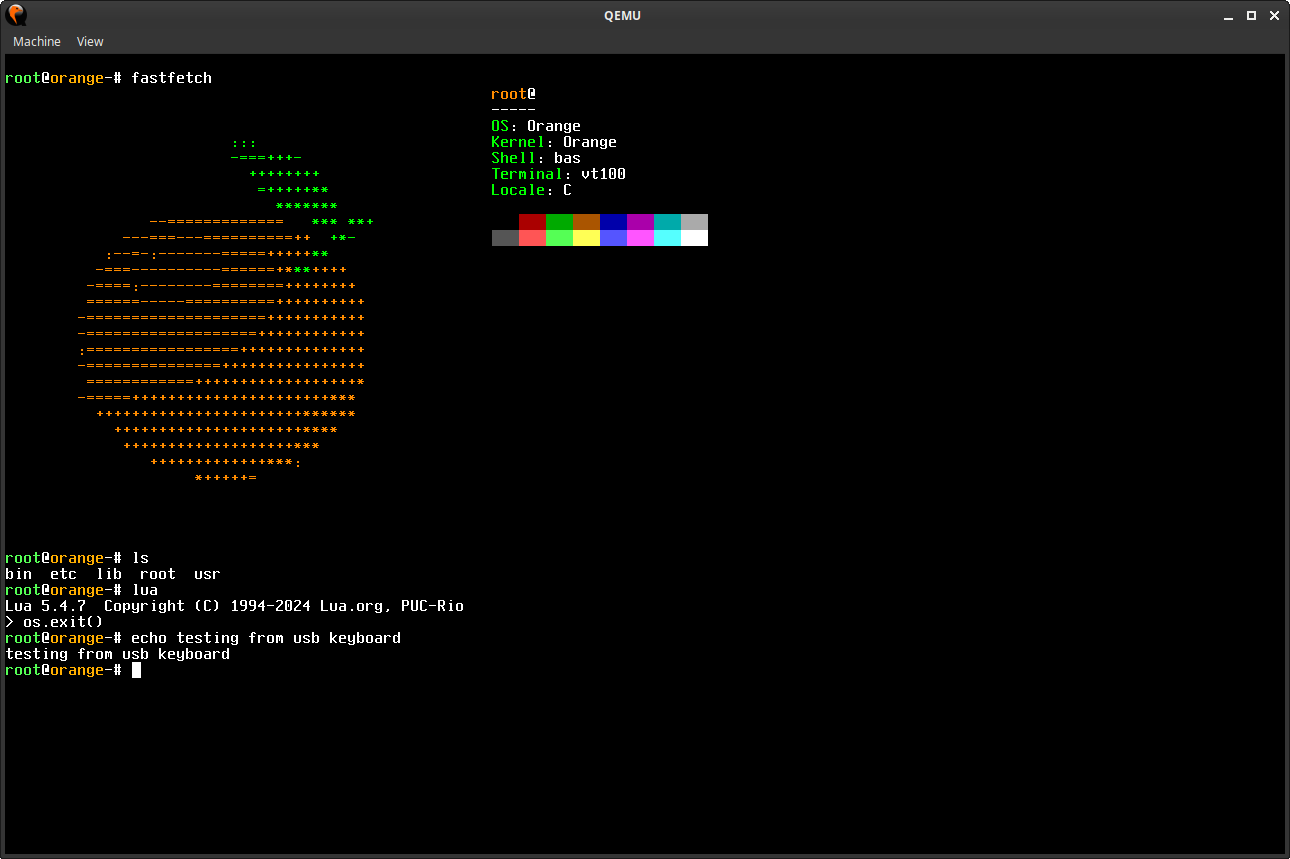
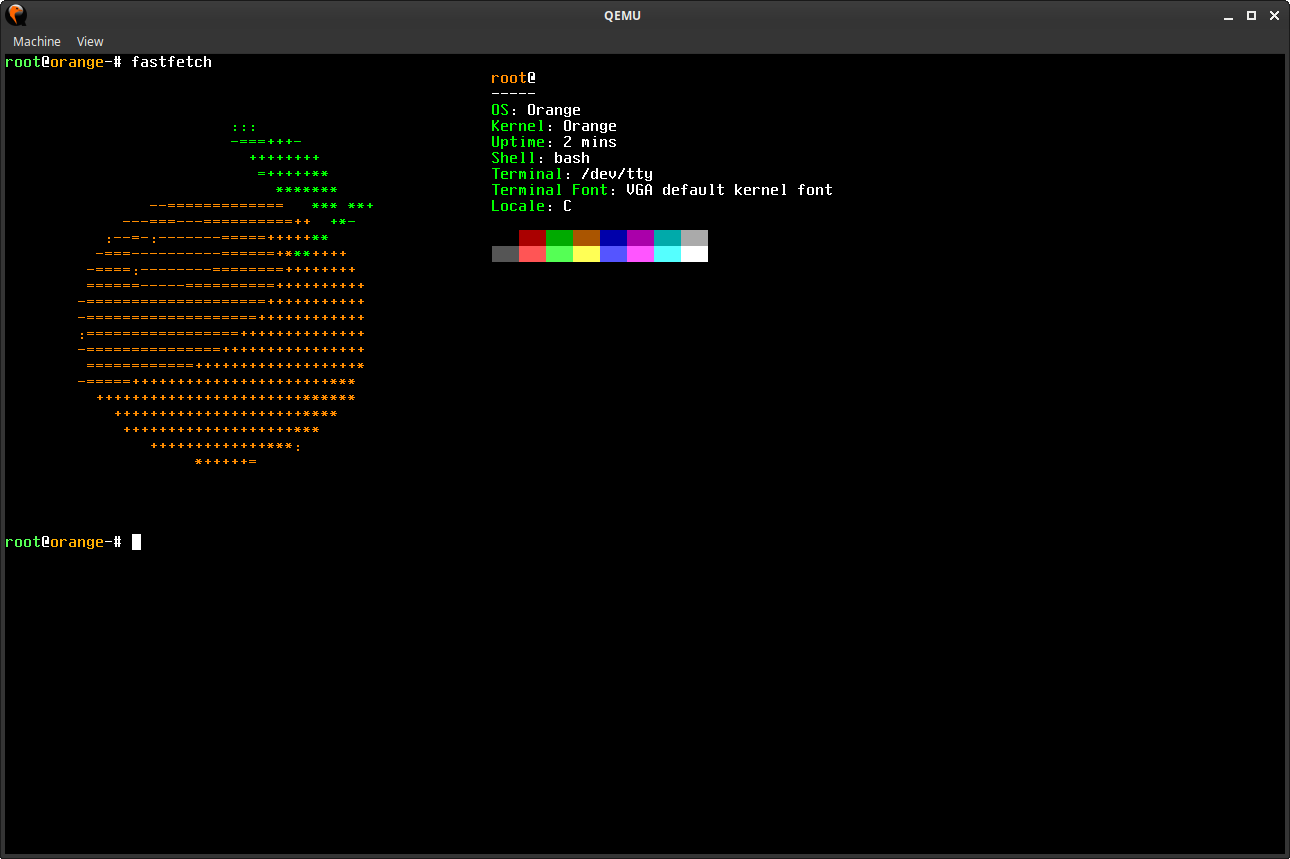
bug fixes, procfs

diff --git a/kernel/src/arch/x86_64/interrupts/syscalls/syscall.cpp b/kernel/src/arch/x86_64/interrupts/syscalls/syscall.cpp
@@ -212,8 +212,6 @@ int syscall_open(int_frame_t* ctx) {
     String::memcpy(path1,first,ptr);
 
     resolve_path(buffer,path1,path,1);  
-    
-    SDEBUG("Opening %s %s %s\n",buffer,path1,path);
     if(flags & O_CREAT)
         VFS::Touch(path);
     
@@ -223,6 +221,12 @@ int syscall_open(int_frame_t* ctx) {
 
     if(stt && stt != -15)
         return ENOENT;
+
+    if(stt == -15 && String::strcmp(path,"/")) {
+        int test = VFS::Exists(path);
+        if(!test)
+            return ENOENT;
+    }
 
     if(zx.type != VFS_TYPE_DIRECTORY && (flags & O_DIRECTORY))
         return ENOTDIR;
@@ -244,6 +248,7 @@ int syscall_open(int_frame_t* ctx) {
     String::memset(&fd_s->reserved_stat,0,sizeof(filestat_t));
 
     fd_s->reserved_stat.name = (char*)1;
+
 
     Paging::EnablePaging((uint64_t*)HHDM::toVirt(ctx->cr3));
     *fdout = fd;
@@ -466,17 +471,23 @@ int syscall_read(int_frame_t* ctx) {
 
     if(VFS::Stat(file->path_point,(char*)&stat,1) == -15) {
         
+        if(file->seek_offset == -1) {
+            ctx->rdx = 0;
+            return 0;
+        }
+
         char* dest_buf = (char*)PMM::VirtualBigAlloc(SIZE_TO_PAGES(count));
 
         __prepare_file_content_syscall(dest_buf,count,ctx->cr3);
 
-        VFS::Read(file->path_point,file->path_point,count);
+        VFS::Read(dest_buf,file->path_point,count);
 
         Paging::EnablePaging((uint64_t*)HHDM::toVirt(ctx->cr3));
         String::memset(buf,0,count);
         String::memcpy(buf,dest_buf,count);
         Paging::EnableKernel();
 
+        file->seek_offset = -1;
         ctx->rdx = count;
         
         return 0;
@@ -1786,7 +1797,6 @@ extern "C" void c_syscall_handler(int_frame_t* ctx) {
     Paging::EnableKernel();
     syscall_t* sys = syscall_find_table(ctx->rax);
 
-    //SINFO("Sys %d\n",sys->num);
     CpuData::Access()->last_syscall = ctx->rax;
 
     if(sys == 0) {

diff --git a/kernel/src/generic/VFS/procfs.cpp b/kernel/src/generic/VFS/procfs.cpp
@@ -5,6 +5,7 @@
 #include <stdint.h>
 #include <generic/memory/pmm.hpp>
 #include <other/string.hpp>
+#include <drivers/hpet/hpet.hpp>
 #include <arch/x86_64/interrupts/syscalls/syscall.hpp>
 #include <generic/limineA/limineinfo.hpp>
 
@@ -47,6 +48,36 @@ int procfs_read(char* buffer,char* filename,long hint_size) {
 
 }
 
+int procfs_uptime(char* buffer,long hint_size) {
+    char buffer0[1024];
+    String::memset(buffer0,0,1024);
+    uint64_t sec = HPET::NanoCurrent() / 1000000000;
+    String::itoa(sec,buffer0,10);
+    String::memset(buffer,0,hint_size);
+    String::memcpy(buffer,buffer0,String::strlen(buffer0) <= hint_size ? String::strlen(buffer0) : hint_size);
+    return 0;
+}
+
+char procfs_exists(char* filename) {
+    procfs_data_t* data = head_procdata;
+    procfs_data_t* find_data = 0;
+
+    while(data) {
+        if(!String::strcmp(data->loc,filename)) {
+            find_data = data;
+            break;
+        }
+        data = data->next;
+    }
+
+    if(!find_data)
+        return 0;
+
+    return 1;
+}
+
 void ProcFS::Init(filesystem_t* fs) {
     fs->readfile = procfs_read;
+    fs->exists = procfs_exists;
+    procfs_reg("/uptime",procfs_uptime);
 }

diff --git a/kernel/src/generic/VFS/ustar.cpp b/kernel/src/generic/VFS/ustar.cpp
@@ -5,6 +5,7 @@
 #include <generic/VFS/vfs.hpp>
 #include <other/assert.hpp>
 #include <other/string.hpp>
+#include <other/debug.hpp>
 #include <other/log.hpp>
 #include <generic/VFS/tmpfs.hpp>
 #include <generic/memory/paging.hpp> // it have align macros
@@ -175,8 +176,11 @@ void resolve_path(const char* inter,const char* base, char *result, char spec) {
         if(!String::strcmp(buffer,"..")) {
             uint64_t mm = resolve_count(final_buffer,ptr,'/');
 
-            if(!String::strcmp(final_buffer,"/\0"))
+            if(!String::strcmp(final_buffer,"/\0")) {
+                buffer = __ustar__strtok(0,"/");
                 continue;
+            }
+                
 
             if(ptr < mm) {
                 final_buffer[0] = '/';
@@ -205,6 +209,7 @@ void resolve_path(const char* inter,const char* base, char *result, char spec) {
     }
     
     String::memset(result,0,1024);
+
     normalize_path(final_buffer,result,2048);
 
     //Log("F %s\n",result);
@@ -276,7 +281,7 @@ void USTAR::ParseAndCopy() {
         current = (ustar_t*)((uint64_t)current + aligned_size + 512);
 
     }
-
+    
     //tmpfs_dump();
 
 }

diff --git a/kernel/src/generic/VFS/vfs.cpp b/kernel/src/generic/VFS/vfs.cpp
@@ -7,6 +7,7 @@
 #include <generic/locks/spinlock.hpp>
 #include <generic/VFS/tmpfs.hpp>
 #include <generic/VFS/devfs.hpp>
+#include <generic/VFS/procfs.hpp>
 
 mount_location_t mount_points[MAX_MOUNT_POINTS];
 uint16_t mount_points_ptr = 0;
@@ -242,16 +243,26 @@ int VFS::Count(char* filename,int idx,int count) {
 
 void VFS::Init() {
     filesystem_t* tmpfs = new filesystem_t;
+    String::memset(tmpfs,0,sizeof(filesystem_t));
     mount_points[0].loc = "/";
     mount_points[0].fs = tmpfs;
     TMPFS::Init(tmpfs);
     INFO("TmpFS initializied\n");
 
     filesystem_t* devfs = new filesystem_t;
+    String::memset(devfs,0,sizeof(filesystem_t));
     mount_points[1].loc = "/dev/";
     mount_points[1].fs = devfs;
     devfs_init(devfs);
-
     INFO("DevFS initializied\n");
+
+    filesystem_t* procfs = new filesystem_t;
+    String::memset(procfs,0,sizeof(filesystem_t));
+    mount_points[2].loc = "/proc/";
+    mount_points[2].fs = procfs;
+    ProcFS::Init(procfs);
+    INFO("ProcFS initializied\n");
+
+    
 
 }

diff --git a/readme.md b/readme.md
@@ -72,10 +72,15 @@ make
 
 - [x] bash
 - [x] coreutils
+- [x] grep
+- [ ] awk
+- [ ] make
 - [ ] doom2
 - [ ] nasm
 - [ ] gcc
 - [x] lua
+- [ ] x11
+- [ ] ace of penguins
 - [ ] python
 - [ ] etc. apps
 
@@ -100,7 +105,7 @@ make
 - [x] TMPFS
 - [x] USTAR
 - [x] DevFS
-- [ ] ProcFS
+- [x] ProcFS
 - [ ] ISO9660
 - [ ] FAT32
 - [ ] EXT4
